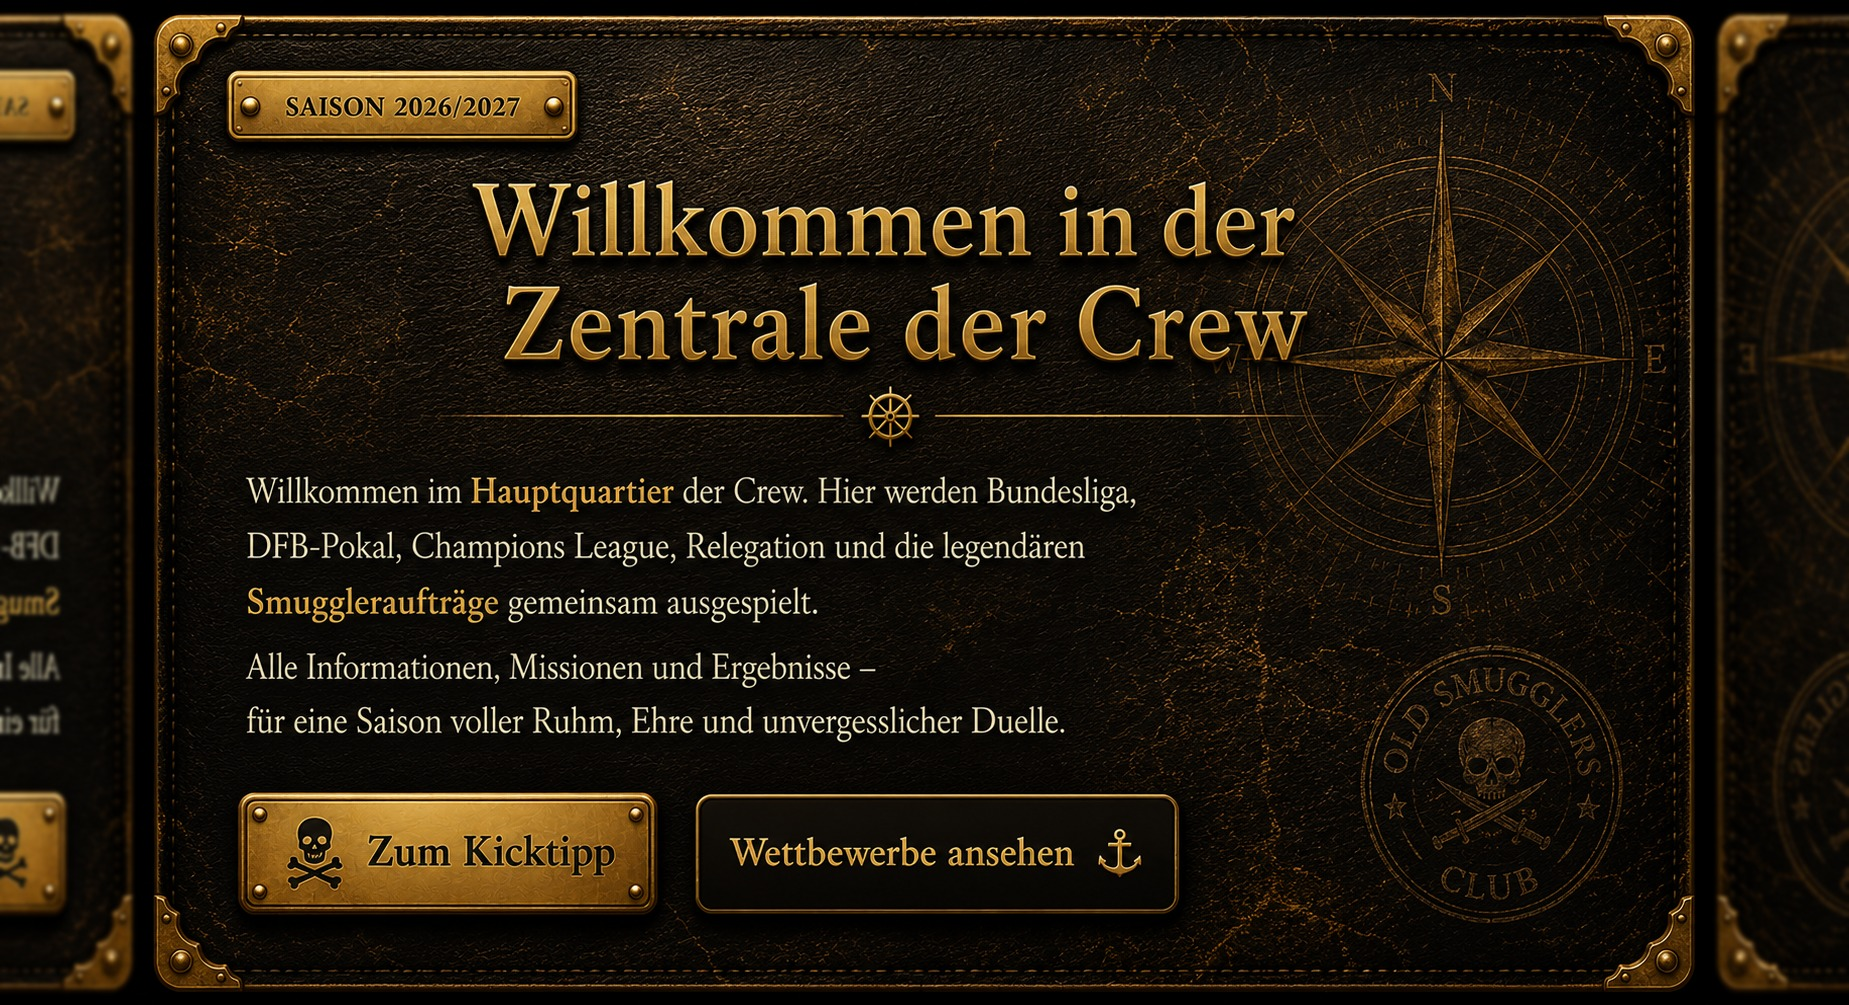
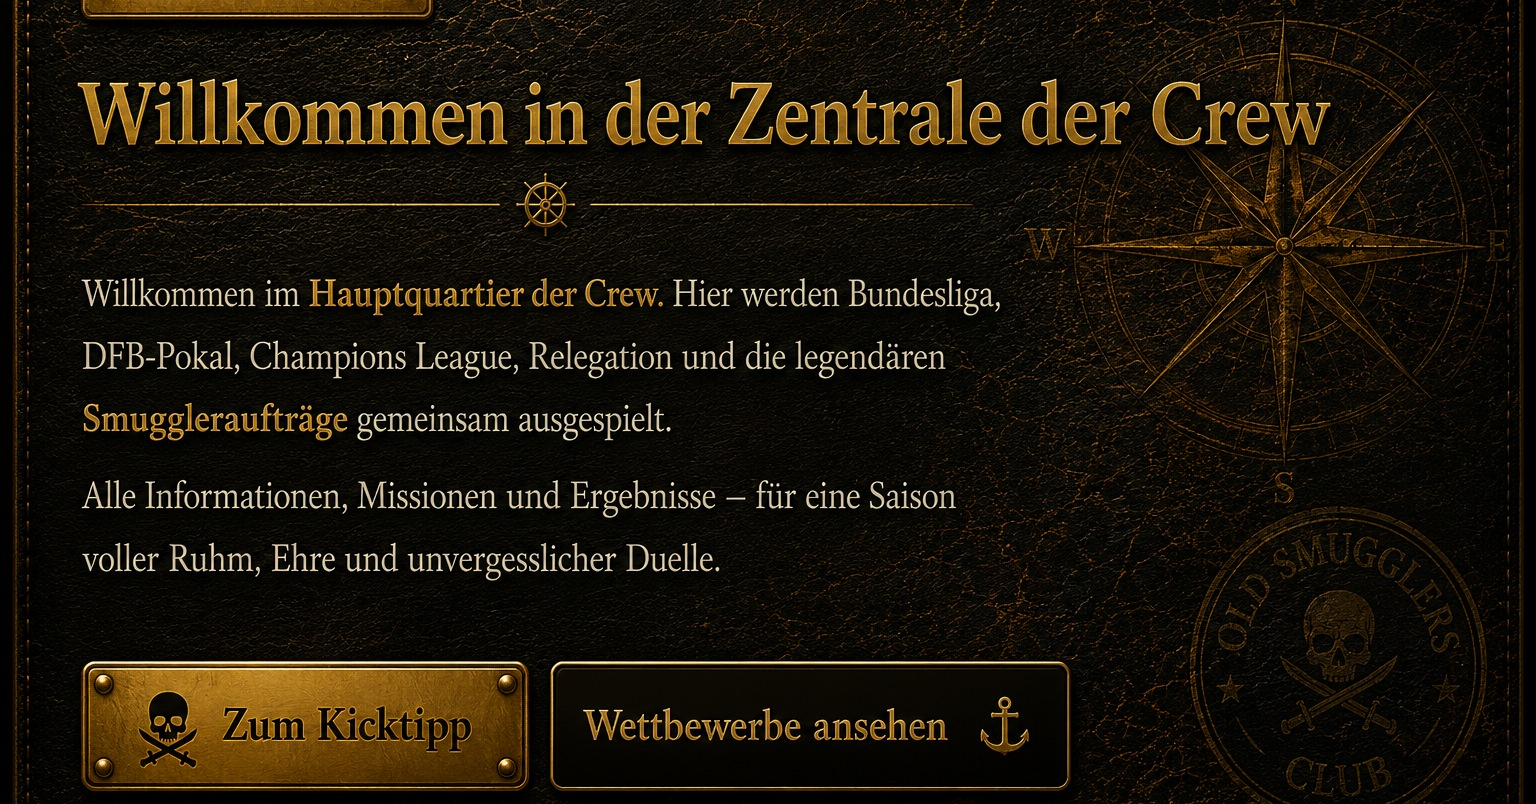
Add files via upload

diff --git a/index.html b/index.html
@@ -386,16 +386,14 @@
     }
 
     .welcome-title {
-      width: 100%;
-      max-width: none;
+      max-width: 720px;
       margin: .12rem 0 .35rem;
       color: #c89546;
       font-family: "Palatino Linotype", "Book Antiqua", Palatino, Georgia, serif;
-      font-size: clamp(1.70rem, 2.85vw, 2.35rem);
+      font-size: clamp(1.72rem, 3.35vw, 2.55rem);
       font-weight: 700;
-      letter-spacing: -.020em;
+      letter-spacing: -.018em;
       line-height: 1.04;
-      white-space: nowrap;
       text-shadow:
         0 1px 0 #2b1908,
         0 2px 4px rgba(0,0,0,.58),
@@ -412,7 +410,7 @@
       align-items: center;
       width: min(360px, 64%);
       gap: .48rem;
-      margin: .58rem 0 1.02rem;
+      margin: .62rem 0 .92rem;
       color: rgba(197,143,50,.60);
     }
 
@@ -435,13 +433,11 @@
     .welcome-copy {
       position: relative;
       z-index: 1;
-      width: 100%;
-      max-width: 760px;
+      max-width: 705px;
       margin: 0;
-      padding-left: 0;
       color: #e7d7ba;
-      font-size: 1.03rem;
-      line-height: 1.56;
+      font-size: 1.02rem;
+      line-height: 1.60;
       text-shadow: 0 1px 2px rgba(0,0,0,.72);
     }
 
@@ -506,8 +502,7 @@
       }
 
       .welcome-title {
-        font-size: clamp(1.55rem, 7vw, 2.05rem);
-        white-space: normal;
+        font-size: clamp(1.62rem, 7.4vw, 2.15rem);
       }
 
       .welcome-divider {
@@ -1888,15 +1883,40 @@
     }
 
   
-    @media (min-width: 721px) and (max-width: 1180px) {
-      .welcome-title {
-        font-size: clamp(1.55rem, 2.55vw, 2.08rem);
-      }
-
-      .welcome-copy {
-        max-width: 100%;
-        font-size: 1rem;
-      }
+    /* Finale bildbasierte Willkommen-Kachel */
+    .welcome-panel {
+      position: relative;
+      padding: 0 !important;
+      overflow: hidden;
+      background: #0b0704 !important;
+      min-height: 420px;
+    }
+    .welcome-panel::before,
+    .welcome-panel::after { display: none !important; }
+    .welcome-image-card {
+      position: absolute;
+      inset: 0;
+      background: url("./willkommen-kachel-final.jpg") center center / cover no-repeat;
+    }
+    .welcome-hotspot {
+      position: absolute;
+      z-index: 4;
+      display: block;
+      border-radius: 10px;
+      outline: none;
+    }
+    .welcome-hotspot:focus-visible { box-shadow: 0 0 0 3px rgba(255,210,98,.9); }
+    .welcome-hotspot-kicktipp {
+      left: 5.1%; bottom: 7.2%; width: 28.8%; height: 13.2%;
+    }
+    .welcome-hotspot-wettbewerbe {
+      left: 36.2%; bottom: 7.2%; width: 34.0%; height: 13.2%;
+    }
+    @media (max-width: 720px) {
+      .welcome-panel { min-height: 330px; }
+      .welcome-image-card { background-position: center; }
+      .welcome-hotspot-kicktipp { left: 5%; bottom: 7%; width: 29.5%; height: 13.5%; }
+      .welcome-hotspot-wettbewerbe { left: 36%; bottom: 7%; width: 35%; height: 13.5%; }
     }
 </style>
 </head>
@@ -2047,34 +2067,13 @@
   <main>
     <section class="hero-grid">
       <article class="panel welcome-panel">
-        <div class="welcome-season">Saison 2026/2027</div>
-        <h2 class="welcome-title">Willkommen in der Zentrale der Crew</h2>
-        <div class="welcome-divider" aria-hidden="true">
-          <span></span>
-          <svg class="pirate-icon"><use href="#icon-star-compass"></use></svg>
-          <span></span>
-        </div>
-
-        <p class="lead welcome-copy">
-          Willkommen im <strong>Hauptquartier der Crew</strong>. Hier werden
-          Bundesliga, DFB-Pokal, Champions League, Relegation und die legendären
-          <strong>Smuggleraufträge</strong> gemeinsam ausgespielt. Alle Informationen,
-          Missionen und Ergebnisse – für eine Saison voller Ruhm, Ehre und
-          unvergesslicher Duelle.
-        </p>
-
-        <div class="actions welcome-actions">
-          <a class="button button-primary welcome-primary"
+        <div class="welcome-image-card" role="img" aria-label="Willkommen in der Zentrale der Crew">
+          <a class="welcome-hotspot welcome-hotspot-kicktipp"
              href="https://www.kicktipp.de/the-old-smugglers-club/"
-             target="_blank"
-             rel="noopener noreferrer">
-            <svg class="pirate-icon" aria-hidden="true"><use href="#icon-skull"></use></svg>
-            Zum Kicktipp
-          </a>
-          <a class="button button-secondary welcome-secondary" href="#wettbewerbe">
-            Wettbewerbe ansehen
-            <svg class="pirate-icon" aria-hidden="true"><use href="#icon-anchor"></use></svg>
-          </a>
+             target="_blank" rel="noopener noreferrer"
+             aria-label="Zum Kicktipp"></a>
+          <a class="welcome-hotspot welcome-hotspot-wettbewerbe"
+             href="#wettbewerbe" aria-label="Wettbewerbe ansehen"></a>
         </div>
       </article>
 
